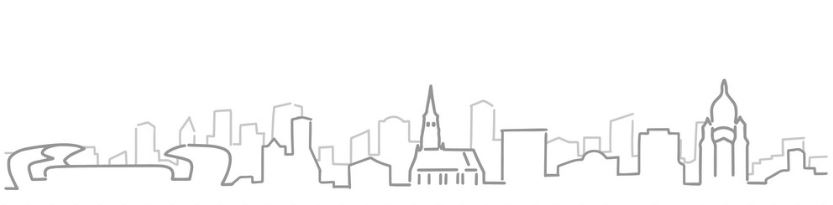
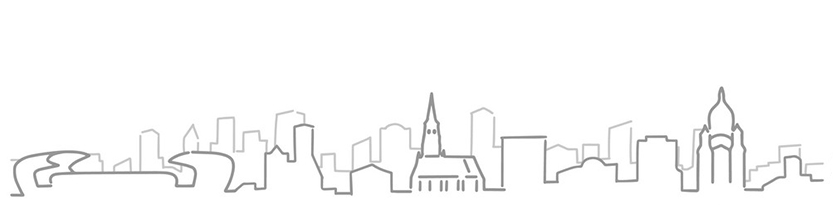
third round of updates

Changed region(s): [[0.0, 0.3805, 0.9988, 0.9659], [0.5618, 0.4683, 0.593, 0.5561]]

diff --git a/index.html b/index.html
@@ -1,60 +1,66 @@
 <html>
   <head>
-    <title>ClujAir - Calitatea Aerului in Cluj-Napoca</title>
+    <title>Calitatea Aerului in Cluj-Napoca</title>
     <meta charset="UTF-8" />
     <meta http-equiv="X-UA-Compatible" content="IE=edge" />
     <meta name="viewport" content="width=device-width, initial-scale=1.0, user-scalable=no" />
     <meta name="author" content="USR Filiala Cluj" />
-    <meta name="description" content="ClujAir - Calitatea Aerului in Cluj-Napoca" />
+    <meta name="description" content="Calitatea Aerului in Cluj-Napoca" />
     <meta name="author" content="USR Filiala Cluj" />
     <meta name="theme-color" content="#01a0e4" />
     <meta property="og:url" content="http://iuliu.net/clujair" />
     <meta property="og:type" content="website" />
-    <meta property="og:title" content="ClujAir - Calitatea Aerului in Cluj-Napoca" />
+    <meta property="og:title" content="Calitatea Aerului in Cluj-Napoca" />
     <meta property="og:description" content="Calitatea aerului in cartierele din Cluj-Napoca" />
     <meta property="og:image" content="https://www.iuliu.net/clujair/img/ogimage.png" />
-    <link rel="stylesheet" href="css/styles.css?v=5" />
+    <link rel="stylesheet" href="css/styles.css?v=6" />
     <link id="favicon" rel="icon" href="img/favicon.png" type="image/png" sizes="16x16" />
     <link href="https://fonts.googleapis.com/css2?family=Montserrat:wght@200;300;400;600&display=swap" rel="stylesheet" />
   </head>
   <body>
     <div class="page-wrapper">
-      <img class="cluj-outline" src="./img/cluj-outline.JPG" alt="Cluj Outline" />
-      <h2>Calitatea Aerului in Cluj-Napoca</h2>
+      <img class="cluj-outline" src="./img/cluj-outline.svg" alt="Cluj Outline" />
+      <div class="logo-title-wrapper">
+        <img src="img/usr-logo.png" alt="USR Logo" class="usr-logo-static" />
+        <h2 class="title">Calitatea Aerului în Cluj-Napoca</h2>
+      </div>
+      <img src="img/usr-logo.png" alt="USR Logo" class="usr-logo-fixed" />
       <div id="root" class="neighborhoods-wrapper"></div>
-      <div style="max-width: 700px; padding: 0 25px; font-weight: 400; margin: 45px 0;">
+      <div style="max-width: 800px; padding: 0 25px; font-weight: 400; margin: 45px 0;">
         <h3>
           Aerul curat și importanța acestuia
         </h3>
         <span>
-          România ocupă locul 8 în Europa la numărul morților din cauza poluării, peste 20.000 de români murind anual din cauza poluării. În marile orașe,
-          principalele surse de poluare sunt mașinile și construcțiile, acestea având cea mai mare contribuție la emisia de microparticule nocive din aer.
-          <br /><br />
-          Dimensiunea particulelor este direct legată de potențialul de a cauza efecte. O problemă importantă o reprezintă particulele cu diametrul aerodinamic
-          mai mic de 10 micrometri, care trec prin nas și gât şi pătrund în alveolele pulmonare provocând inflamații și intoxicări.
+          România ocupă locul 8 în Europa la numărul morților din cauza poluării, <b>peste 20.000 de români murind anual din cauza poluării</b>. În marile
+          orașe, principalele surse de poluare sunt mașinile și construcțiile, acestea având cea mai mare contribuție la emisia de microparticule nocive din
+          aer. <br /><br />
+          Dimensiunea particulelor este direct legată de potențialul de a cauza efecte. O problemă importantă o reprezintă particulele cu
+          <b>diametrul aerodinamic mai mic de 10 micrometri</b>, care trec prin nas și gât şi pătrund în alveolele pulmonare provocând inflamații și intoxicări.
         </span>
         <br />
         <br />
         <span>
-          Metoda de referință pentru prelevarea şi măsurarea PM1, PM2,5 și PM10 este cea prevăzută în standardul EN12341 "Aer înconjurător. Metoda standardizată
-          pentru măsurarea gravimetrică pentru determinarea fracției masice de PM10 sau PM2,5 a particulelor în suspensie".
+          Metoda de referință pentru prelevarea şi măsurarea <b>PM1, PM2,5 și PM10</b> este cea prevăzută în standardul EN12341 "Aer înconjurător. Metoda
+          standardizată pentru măsurarea gravimetrică pentru determinarea fracției masice de PM10 sau PM2,5 a particulelor în suspensie".
         </span>
         <br />
         <br />
         <span>
           Valorile limită impuse de Uniunea Europeană privind cantitatea maximă recomandată de microparticule per metru cub, este după cum urmează:
           <br />
-          <br />&bull; Particule în suspensie - PM10: max 40 µg/m³ (micrograme pe metru cub) <br />&bull; Particule în suspensie - PM2.5: max 25 µg/m³
-          (micrograme pe metru cub) <br />&bull; Particule în suspensie - PM1.0: max 20 µg/m³ (micrograme pe metru cub)
+          <br />&bull; Particule în suspensie - <b>PM10: max 40 µg/m³</b> (micrograme pe metru cub) <br />&bull; Particule în suspensie -
+          <b>PM2.5: max 25 µg/m³</b> (micrograme pe metru cub) <br />&bull; Particule în suspensie - <b>PM1.0: max 20 µg/m³</b> (micrograme pe metru cub)
         </span>
         <br />
         <br />
         <span>
-          Nota acordată fiecărui cartier este o comasare a valorilor curente de PM1.0, PM2.5 și PM10 raportate de toți senzorii disponibili în cartierul
-          respectiv.
+          <b
+            >Nota acordată este o comasare a valorilor curente de PM1.0, PM2.5 și PM10 raportate de toți senzorii disponibili în aria cartierului respectiv.
+            (e.g. nota 4 ar fi acordată unui cartier în care toți cei 3 indici sunt la limita maximă legală</b
+          >)
         </span>
       </div>
     </div>
-    <script src="js/app.js?v=4"></script>
+    <script src="js/app.js?v=5"></script>
   </body>
 </html>

diff --git a/css/styles.css b/css/styles.css
@@ -2,6 +2,8 @@ html,
 body {
   overflow-x: hidden;
   font-family: 'Montserrat';
+  color: #4c4c4c;
+  margin: 0;
 }
 
 .page-wrapper {
@@ -23,7 +25,8 @@ h2 {
 }
 
 .cluj-outline {
-  width: 300px;
+  width: 340px;
+  margin-top: 25px;
   margin-bottom: -15px;
   position: relative;
   z-index: -1;
@@ -32,15 +35,15 @@ h2 {
 .neighborhoods-wrapper {
   display: flex;
   flex-wrap: wrap;
-  width: calc(100vw - 40px);
-  max-width: 1020px;
-  justify-content: space-between;
+  width: 100vw;
+  max-width: 1040px;
+  justify-content: center;
 }
 
 .neighborhood {
   background-color: #9e9e9e;
   transition: all 0.5s ease-in-out;
-  margin-top: 20px;
+  margin: 10px;
   width: calc(100vw - 32px);
   max-width: 500px;
   border-radius: 8px;
@@ -216,4 +219,57 @@ h2 {
 
 .neighborhood:hover .max-grade {
   width: 27px;
+}
+
+.usr-logo-fixed {
+  height: 70px;
+  position: absolute;
+  top: 35px;
+  left: calc(((100vw - (500px * 2 + 40px)) / 2) + 3px);
+}
+
+.usr-logo-static {
+  height: 50px;
+  display: none;
+}
+
+@media (max-width: 1039px) {
+  .usr-logo-fixed {
+    display: none;
+  }
+  .usr-logo-static {
+    display: inline-block;
+  }
+}
+
+.title {
+  display: inline-block;
+}
+
+@media (max-width: 375px) {
+  .title {
+    max-width: 224px;
+    text-align: right;
+  }
+}
+
+.logo-title-wrapper {
+  display: flex;
+  justify-content: space-between;
+  width: calc(100vw - 40px);
+  max-width: 500px;
+  align-items: center;
+  margin-top: 6px;
+}
+
+@media (min-width: 1039px) {
+  .logo-title-wrapper {
+    justify-content: center;
+  }
+}
+
+.cluj-outline {
+  width: calc(100vw - 40px);
+  max-width: 370px;
+  margin-bottom: -20px;
 }

diff --git a/js/app.js b/js/app.js
@@ -129,13 +129,13 @@ const neighbourhoods = [
     name: 'Mănăștur',
     deviceIds: ['160000CA'],
     shouldShow: true,
-    imageUrl: 'https://i0.wp.com/cluju.ro/wp-content/uploads/2018/01/13475165_1800244116865752_2793115031474893207_o.jpg?fit=940%2C528&ssl=1',
+    imageUrl: 'img/cartiere/manastur.jpg',
   },
   {
     id: 'europa',
     name: 'Europa',
     deviceIds: ['160000FA', '160000C6', '820001CF'],
-    imageUrl: 'https://i.imgur.com/K1YKwqc.png',
+    imageUrl: 'img/cartiere/europa.png',
     shouldShow: true,
   },
   {
@@ -156,7 +156,7 @@ getAndDisplayData();
 
 function getHtmlForNeighbourhood({ id, name, value, imageUrl, pm1, pm25, pm10 }) {
   return `
-  <a href="https://www.uradmonitor.com/" target="_blank" class="neighborhood" id="${id}" style="background-color: ${getColor(value)}">
+  <div class="neighborhood" id="${id}" style="background-color: ${getColor(value)}">
     <div class="header">
       Cartierul&nbsp;
       <span class="name">${name}</span>
@@ -171,11 +171,11 @@ function getHtmlForNeighbourhood({ id, name, value, imageUrl, pm1, pm25, pm10 })
       <div class="gradient"></div>
       <img
         src="${imageUrl}"
-        style="height: 280px;"
+        style="height: 250px;"
         alt="Cartierul ${name}"
       />
     </div>
-  </a>
+  </div>
     `;
 }
 
